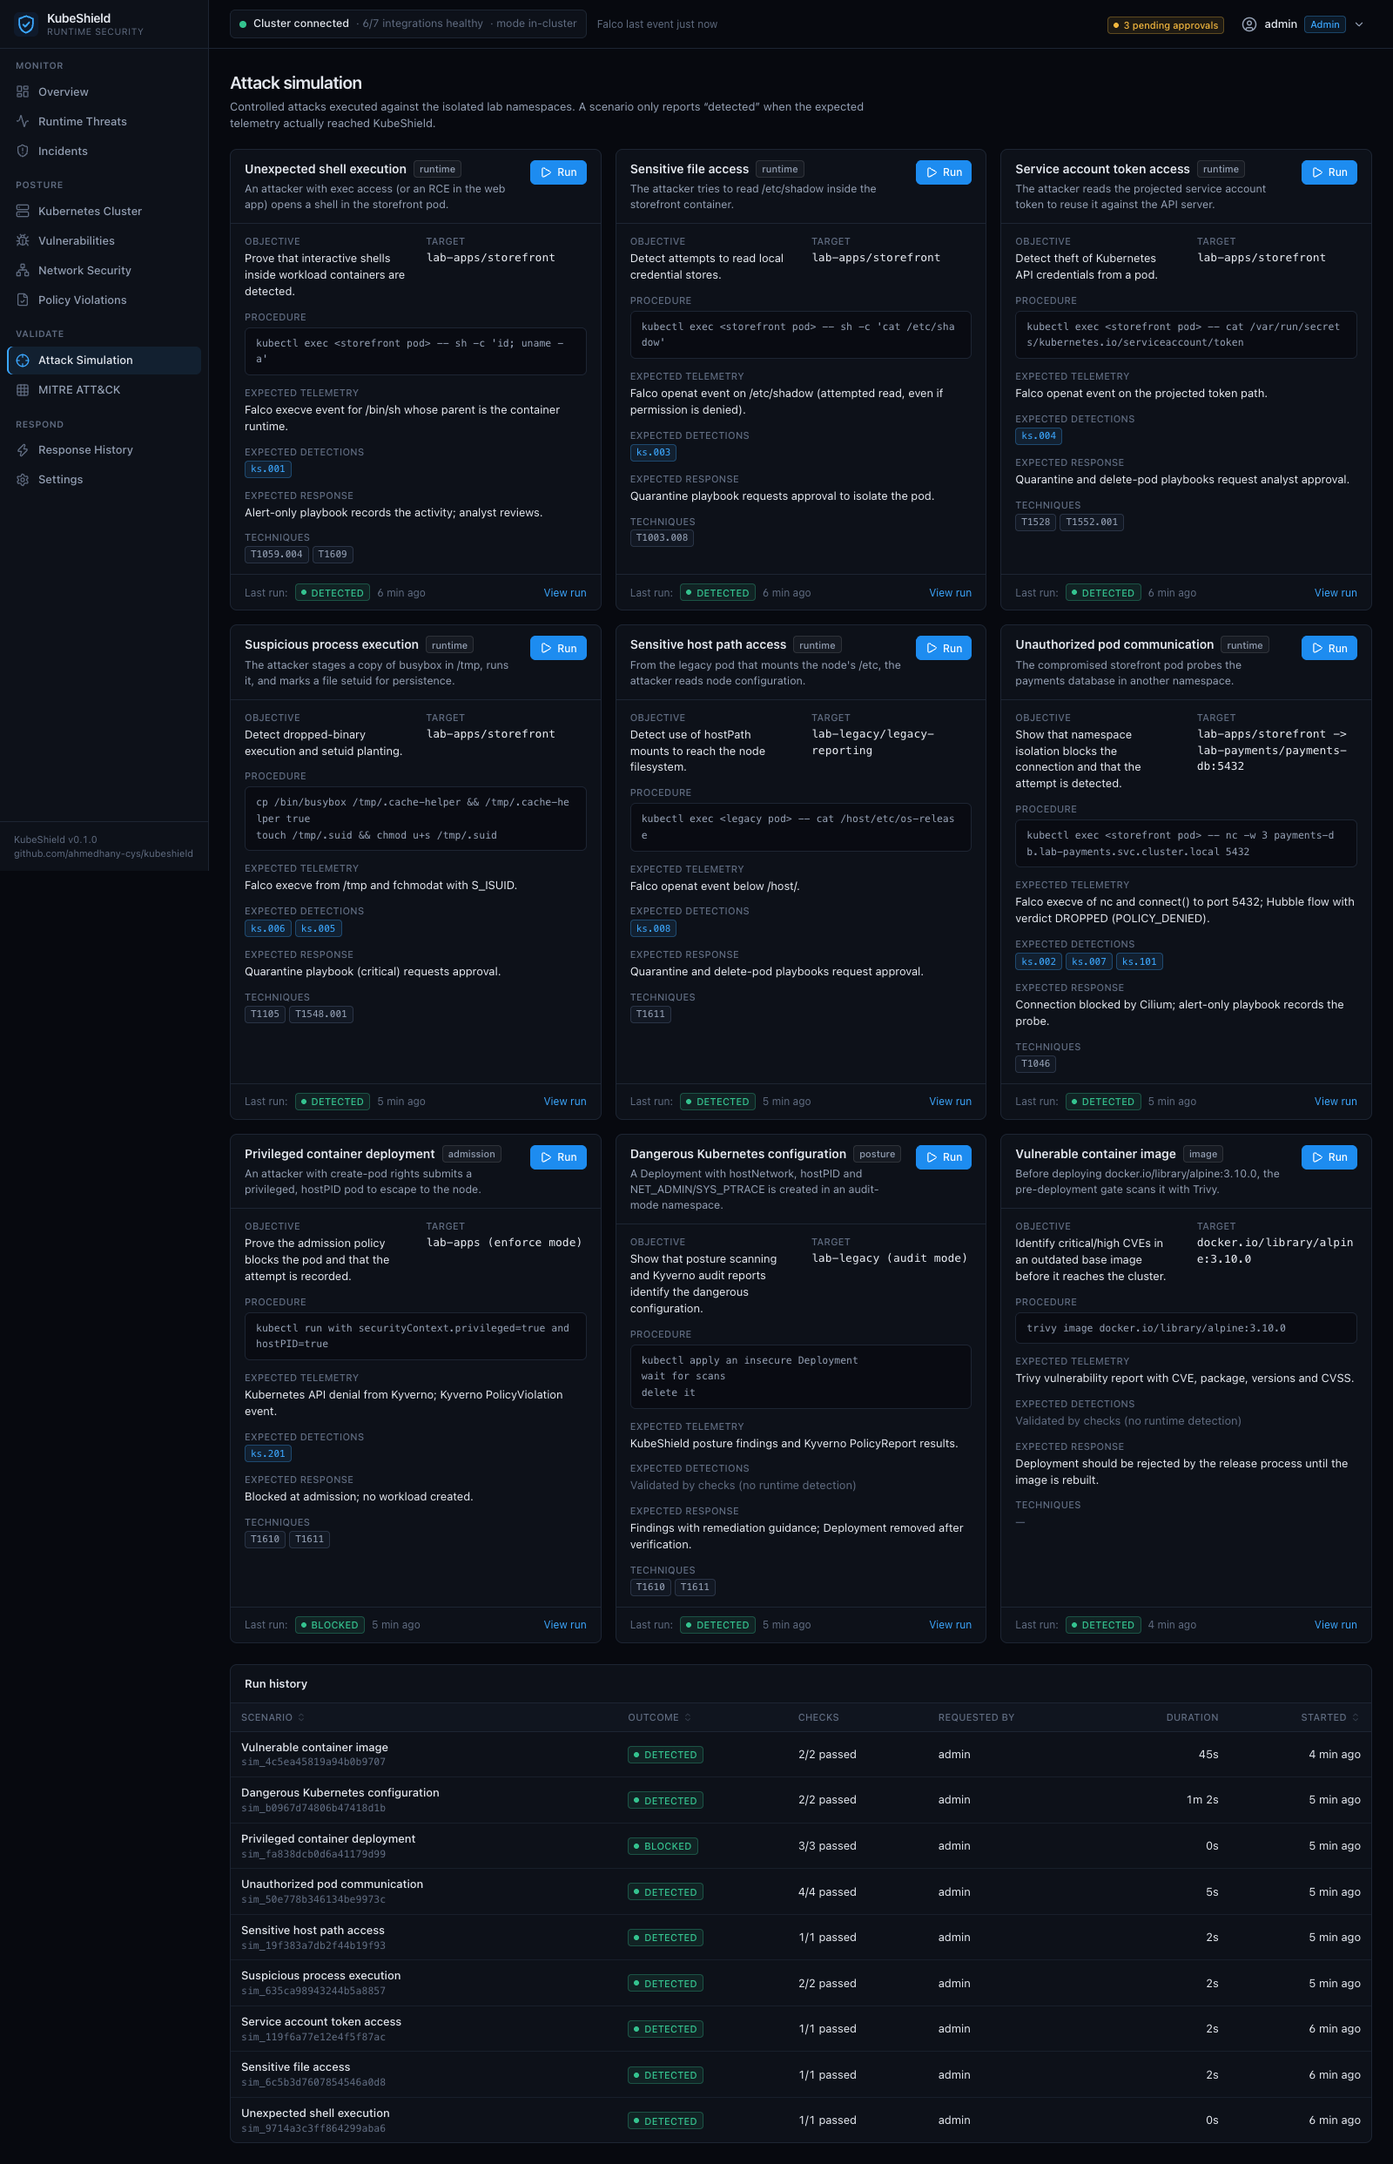
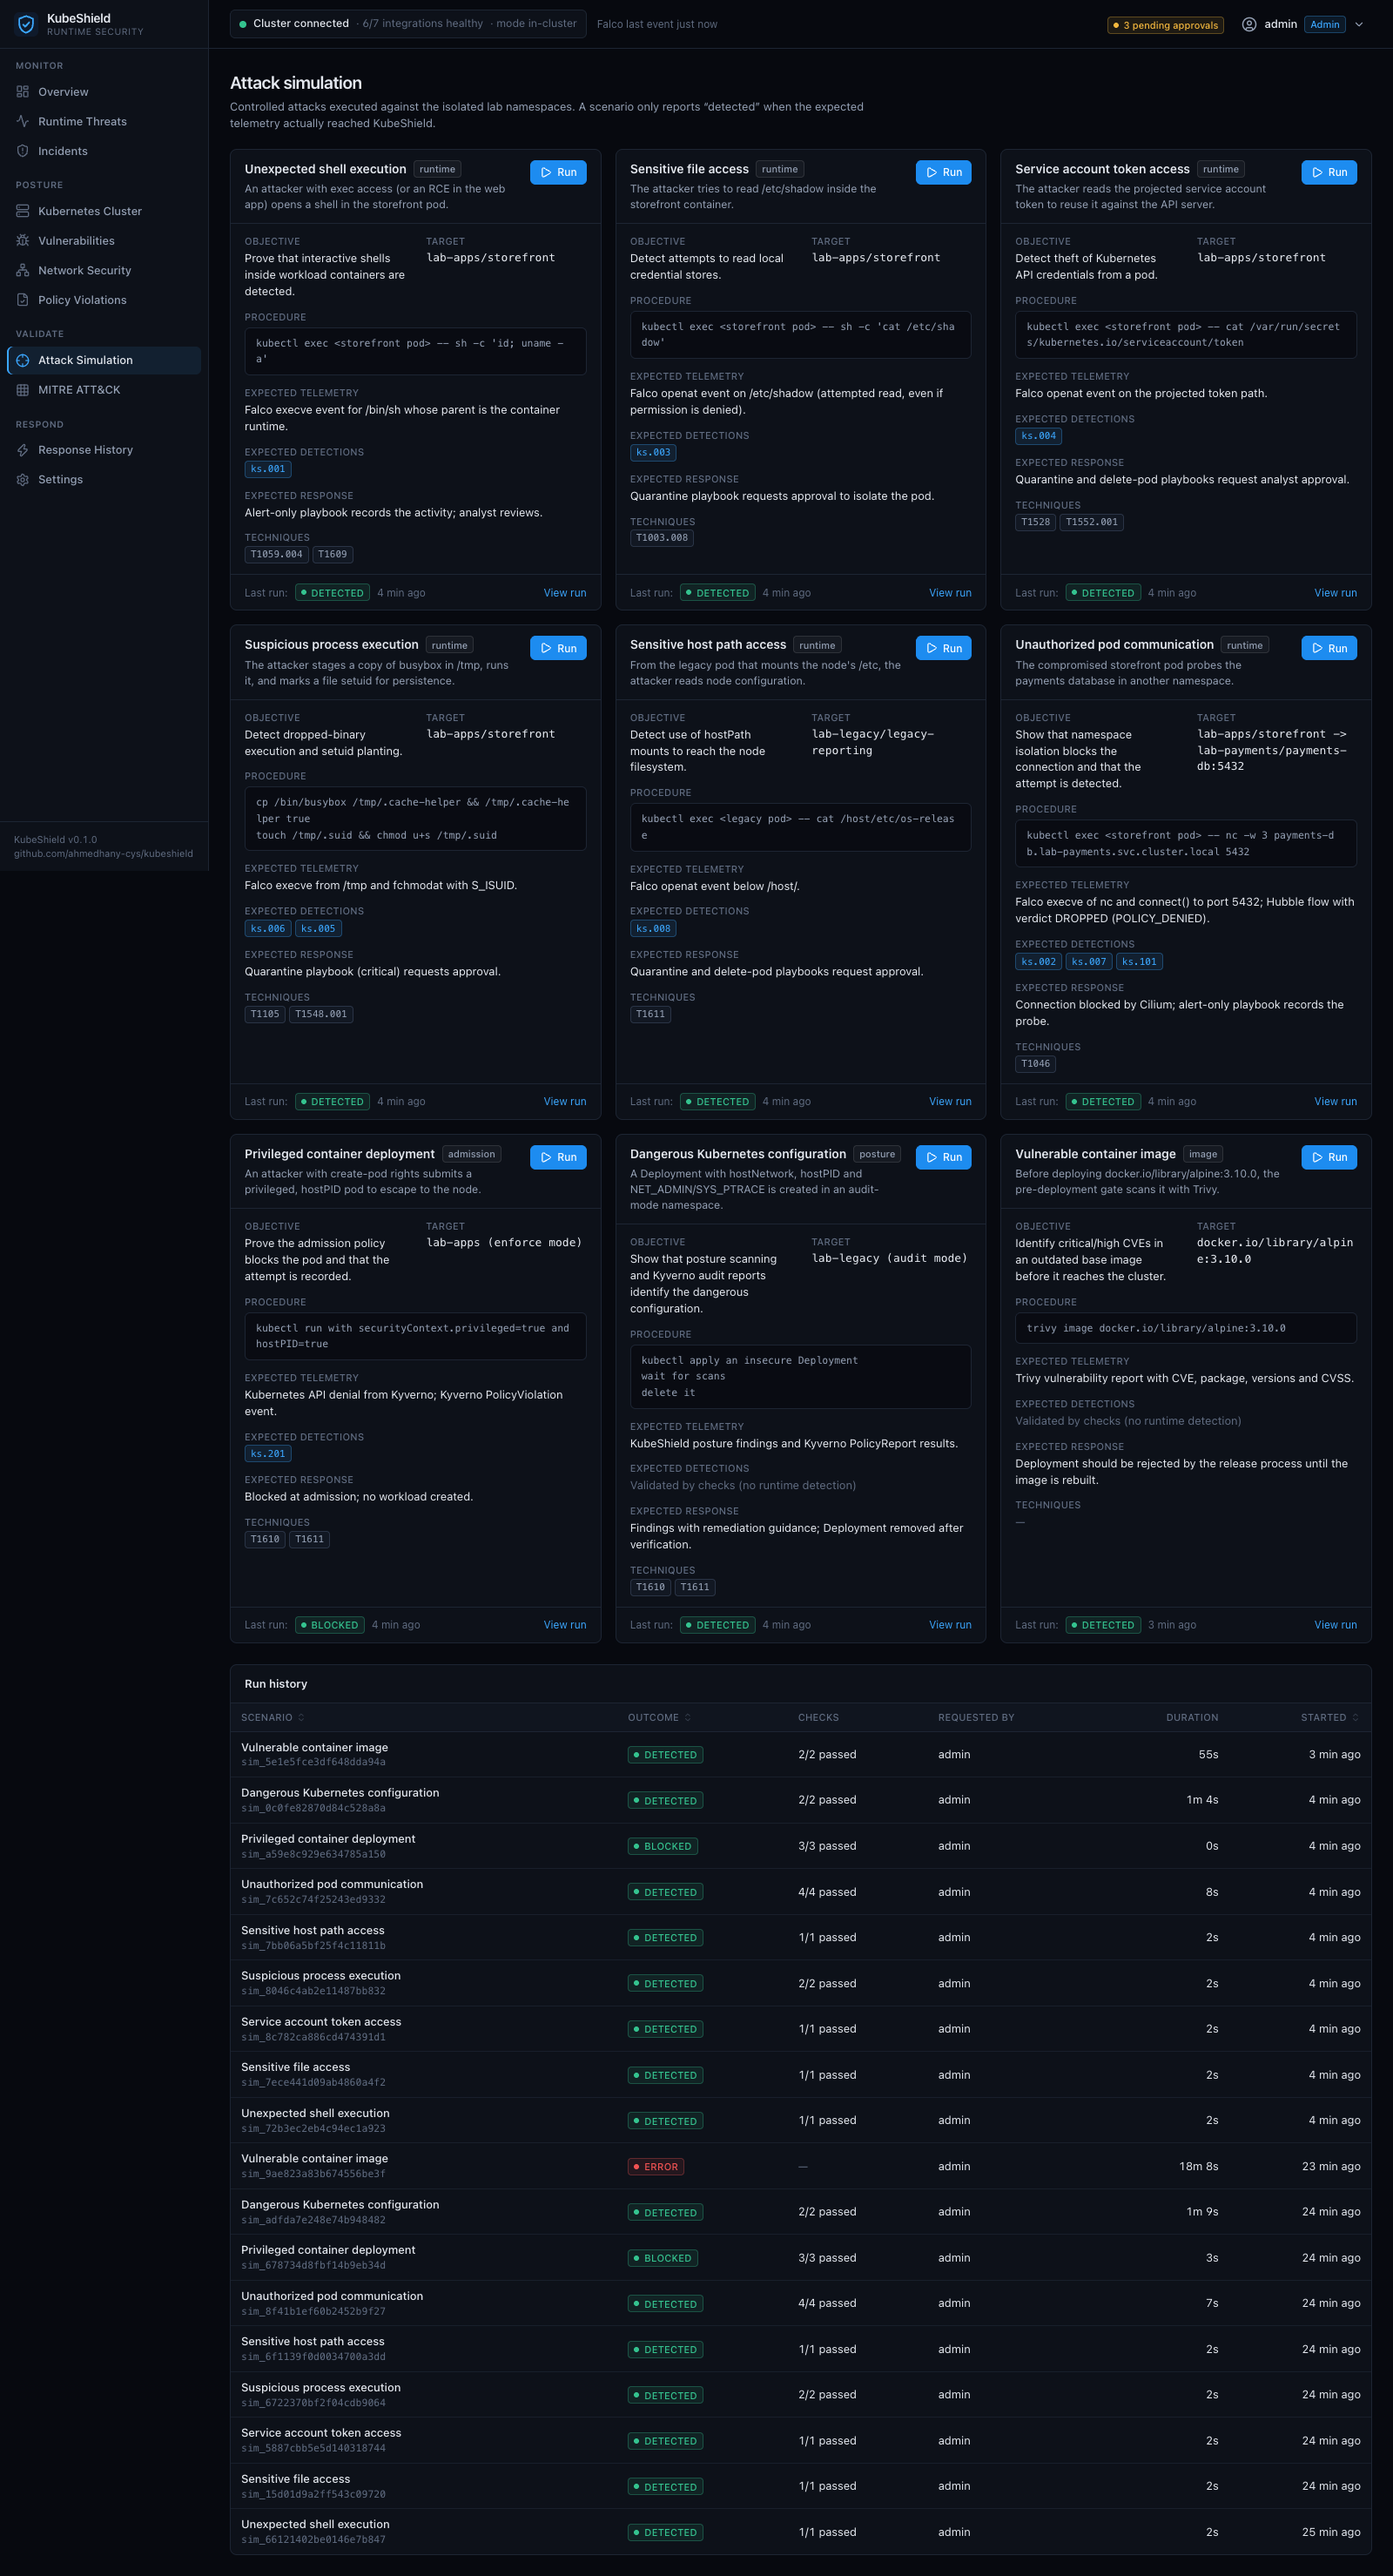
docs: regenerate validation report and screenshots from a full run
All 9 scenarios, the approval-gated isolation flow and namespace containment passed (36/36 checks).
Adds the incident investigation and response history screenshots.

diff --git a/README.md b/README.md
@@ -62,11 +62,12 @@ Details, data flow and design decisions: [docs/architecture.md](docs/architectur
 
 ## Validation results
 
-`e2e/run_e2e.py` runs every scenario through the API, then approves a playbook's isolation request and
-proves containment with real connections. The generated report:
+`e2e/run_e2e.py` runs every scenario through the API, approves a playbook's isolation request and proves
+it with real connections, then applies and releases namespace containment and probes it the same way.
+The generated report:
 [docs/validation/detection-validation-report.md](docs/validation/detection-validation-report.md).
 
-Last full automated run (2026-10-31, before the final noise-tuning and containment fixes below):
+Last full automated run: 2026-11-01, 36 of 36 checks passed, on the code in this repository.
 
 | Scenario | Expected | Outcome |
 |---|---|---|
@@ -80,10 +81,11 @@ Last full automated run (2026-10-31, before the final noise-tuning and containme
 | Dangerous Kubernetes configuration | posture findings + Kyverno audit reports | detected |
 | Vulnerable image (`alpine:3.10.0`) | critical/high CVEs before deployment | detected (3 critical, 9 high) |
 | Response flow | approve → isolate → verify → traffic blocked both ways → audit → release → restored | 10/10 checks passed |
+| Namespace containment | DNS and same-namespace kept; API server and other namespaces blocked; released → restored | 8/8 checks passed |
 
 Additional live checks performed against the cluster (via the API, results recorded in its audit log):
-delete pod with forensics capture — succeeded; scale to zero — succeeded; namespace containment — see the
-next section.
+delete pod with forensics capture — succeeded; scale to zero — succeeded. These two are covered by unit
+tests but not by the automated end-to-end run.
 
 ### Problems found by testing (and fixed)
 
@@ -95,9 +97,13 @@ Testing against real telemetry and real traffic changed the design in several pl
 - **Deny-only Cilium policies default-deny the endpoint.** Namespace containment initially broke DNS;
   it now sets `enableDefaultDeny: false`.
 - **The kind API server is a host identity.** Namespace-selector denies did not block it; containment now
-  denies the `kube-apiserver`, `host` and `remote-node` entities. Verified manually with real connections
-  (DNS and same-namespace traffic kept; API server and cross-namespace pod blocked). The automated
-  containment check was added to `run_e2e.py` but has **not completed a full run yet** (see below).
+  denies the `kube-apiserver`, `host` and `remote-node` entities, verified by the automated containment
+  check above.
+- **Trivy overflowed the pod's `/tmp`.** On the first scan after a restart, Trivy stages its ~270 MB DB
+  download in `/tmp`; the 256 Mi limit got the API pod evicted mid-run. The limits are now 1 Gi / 3 Gi.
+- **Interrupted work blocked the platform.** The simulation running when the pod was evicted stayed
+  `running` forever and refused every new run (scans had the same problem). Startup now marks in-flight
+  work as failed and audits it; response actions are never replayed without a human.
 - **Falco details:** enter events are gone in 0.45, failed `connect()` calls have no socket tuple, `fchmodat`
   reports `SUCCESS` not `0`, and the default `rule_matching: first` hid KubeShield alerts behind upstream
   rules. See [detection-rules.md](docs/detection-rules.md).
@@ -113,11 +119,11 @@ All screenshots come from the running application with data produced by the scen
 |---|---|
 | ![Runtime threats](docs/screenshots/02-runtime-threat-detection.png) Runtime threat detection | ![Cluster](docs/screenshots/03-kubernetes-cluster-overview.png) Kubernetes cluster and posture |
 | ![Vulnerabilities](docs/screenshots/04-vulnerability-scanning.png) Image vulnerability scanning | ![Policies](docs/screenshots/05-policy-violations.png) Kyverno policies and violations |
-| ![Simulation](docs/screenshots/07-attack-simulation-results.png) Attack simulation results | ![MITRE](docs/screenshots/08-mitre-attack-mapping.png) ATT&CK coverage from validation runs |
+| ![Incident](docs/screenshots/06-incident-investigation.png) Incident investigation, timeline and audit trail | ![Simulation](docs/screenshots/07-attack-simulation-results.png) Attack simulation results |
+| ![MITRE](docs/screenshots/08-mitre-attack-mapping.png) ATT&CK coverage from validation runs | ![Responses](docs/screenshots/09-automated-response-history.png) Response history with verification |
 | ![Network](docs/screenshots/10-network-security.png) Hubble flows and policies | ![Settings](docs/screenshots/11-settings-system-status.png) Settings, integrations, detection catalog |
 
-The incident-investigation and response-history screenshots are not included yet: they were captured
-before the API fix above and showed the crash. They will be regenerated with the next full run.
+The `error` row in the simulation history is real: it is the run interrupted by the `/tmp` eviction above.
 
 ## Quick start
 
@@ -148,7 +154,7 @@ e2e/.venv/bin/python e2e/screenshots.py --browser-channel chrome
 
 | Layer | What | How |
 |---|---|---|
-| Unit (61 tests) | Falco normalisation, incident correlation, playbooks and safety switches, response execution and verification (fake Kubernetes), lab guard, posture and RBAC checks, Trivy parsing and input validation, auth/CSRF/rate limiting/JWT tampering, Hubble flow conversion, Kyverno parsing, ATT&CK coverage | `cd backend && python -m pytest` |
+| Unit (62 tests) | Falco normalisation, incident correlation, playbooks and safety switches, response execution and verification (fake Kubernetes), lab guard, posture and RBAC checks, Trivy parsing and input validation, auth/CSRF/rate limiting/JWT tampering, Hubble flow conversion, Kyverno parsing, ATT&CK coverage | `cd backend && python -m pytest` |
 | End-to-end | All scenarios, approval-gated isolation with traffic tests, namespace containment, audit trail | `e2e/run_e2e.py` |
 | Static / supply chain | ruff, strict TypeScript, Helm lint, Falco rule validation, Trivy config/secret/image scans, pip-audit, npm audit | `.github/workflows/` |
 

diff --git a/docs/validation/detection-validation-report.md b/docs/validation/detection-validation-report.md
@@ -1,6 +1,6 @@
 # Detection Validation Report
 
-Generated by `e2e/run_e2e.py` on 2026-10-31T19:33:20.160600+00:00 from live laboratory runs. Every row is the outcome recorded by the KubeShield API for a real scenario execution.
+Generated by `e2e/run_e2e.py` on 2026-11-01T03:49:00.816351+00:00 from live laboratory runs. Every row is the outcome recorded by the KubeShield API for a real scenario execution.
 
 ## Environment
 
@@ -17,15 +17,15 @@ Generated by `e2e/run_e2e.py` on 2026-10-31T19:33:20.160600+00:00 from live labo
 
 | Scenario | Expected | Outcome | Checks passed | Run | Evidence |
 |---|---|---|---|---|---|
-| Unexpected shell execution | detected | **detected** | 1/1 | `sim_9714a3c3ff864299aba6` | `falco_e30948fb-cda6-4299-8b23-24648a312f23` |
-| Sensitive file access | detected | **detected** | 1/1 | `sim_6c5b3d7607854546a0d8` | `falco_f1cff010-49b5-442f-8a59-1f99d7e1a5c9` |
-| Service account token access | detected | **detected** | 1/1 | `sim_119f6a77e12e4f5f87ac` | `falco_d614a93f-aed2-4079-87f8-1880be38bfbb` |
-| Suspicious process execution | detected | **detected** | 2/2 | `sim_635ca98943244b5a8857` | `falco_832dd78e-4a72-48b9-b9b4-539ad84fb023`, `falco_dd6eedb6-a01d-4213-9afa-f932207fbd8d` |
-| Sensitive host path access | detected | **detected** | 1/1 | `sim_19f383a7db2f44b19f93` | `falco_62b2aae5-6124-44cb-b7a9-273c8d129466` |
-| Unauthorized pod communication | detected | **detected** | 4/4 | `sim_50e778b346134be9973c` | `falco_147f9e5a-207b-42dc-87eb-c74c35afef34`, `falco_7f419124-4da1-46b2-a966-7abb29ffbb38`, `hubble_5f544e95ce03cdd92ccbf57e4144778363c5ebbd` |
-| Privileged container deployment | blocked | **blocked** | 3/3 | `sim_fa838dcb0d6a41179d99` | `kyverno_c1dae2d6cc71a5d2487e3246457b932d4c37b6f6`, `kyverno_190e8cc6bec17c7fce4bc1d6ff8c99cb88c0c115` |
-| Dangerous Kubernetes configuration | detected | **detected** | 2/2 | `sim_b0967d74806b47418d1b` | KS-POD-002, KS-POD-004, KS-POD-006, KS-POD-007 |
-| Vulnerable container image | detected | **detected** | 2/2 | `sim_4c5ea45819a94b0b9707` | scan `scan_eded623b12e4434f884c` |
+| Unexpected shell execution | detected | **detected** | 1/1 | `sim_72b3ec2eb4c94ec1a923` | `falco_b7a6dc66-1d7a-48fc-8163-89a3d0a2546c` |
+| Sensitive file access | detected | **detected** | 1/1 | `sim_7ece441d09ab4860a4f2` | `falco_be615ba0-bfcd-426a-9c6a-fa79352652f6` |
+| Service account token access | detected | **detected** | 1/1 | `sim_8c782ca886cd474391d1` | `falco_50427e41-e920-4db8-80eb-4ce7aa946a52` |
+| Suspicious process execution | detected | **detected** | 2/2 | `sim_8046c4ab2e11487bb832` | `falco_5b19e932-a414-433f-baa8-5e1e12037651`, `falco_c7bd0e95-d805-4525-b7d7-402a70afce9b` |
+| Sensitive host path access | detected | **detected** | 1/1 | `sim_7bb06a5bf25f4c11811b` | `falco_33caa47c-8de6-4624-9385-87071d91eabb` |
+| Unauthorized pod communication | detected | **detected** | 4/4 | `sim_7c652c74f25243ed9332` | `falco_29062d6b-dda4-48f8-9bd5-1fc17060f59e`, `falco_3b149e75-bf5f-4cc2-ae25-c1574de194e5`, `hubble_a97644d35b209564bb761ca04c6e35905de7e526` |
+| Privileged container deployment | blocked | **blocked** | 3/3 | `sim_a59e8c929e634785a150` | `kyverno_8c6b6e1b270a19baa8ceef4cc0e77b3f419a6af4`, `kyverno_86f71e177eb6d44f20ed926652401207517e97db` |
+| Dangerous Kubernetes configuration | detected | **detected** | 2/2 | `sim_0c0fe82870d84c528a8a` | KS-POD-002, KS-POD-004, KS-POD-006, KS-POD-007 |
+| Vulnerable container image | detected | **detected** | 2/2 | `sim_5e1e5fce3df648dda94a` | scan `scan_4c2300e0c6ad4d0da3e2` |
 
 ### Check details
 
@@ -48,7 +48,7 @@ Generated by `e2e/run_e2e.py` on 2026-10-31T19:33:20.160600+00:00 from live labo
 
 **Sensitive host path access** (`host-path-access`) — detected
 
-- PASS — Detection ks.008 received from lab-legacy/legacy-reporting-b75d8cbf4-4hbgt
+- PASS — Detection ks.008 received from lab-legacy/legacy-reporting-b75d8cbf4-vt8mb
 
 **Unauthorized pod communication** (`unauthorized-pod-communication`) — detected
 
@@ -75,7 +75,7 @@ Generated by `e2e/run_e2e.py` on 2026-10-31T19:33:20.160600+00:00 from live labo
 
 ## Response validation (detect → respond → verify)
 
-Incident `34`, action `act_9a8d50b2b1ff40e59a49`.
+Incident `34`, action `act_fa6aca1d5e064e01b646`.
 
 - PASS — Scenario produced an incident
 - PASS — Playbook requested isolation and waited for approval (safe default)
@@ -86,6 +86,19 @@ Incident `34`, action `act_9a8d50b2b1ff40e59a49`.
 - PASS — Incident marked contained
 - PASS — Audit trail records request, approval and outcome
 - PASS — Quarantine released
+- PASS — Connectivity restored after release
+
+## Namespace containment validation
+
+Action `act_837b980ad33145e0879f` on `lab-payments`, probed from `payments-api`.
+
+- PASS — Baseline: DNS, same-namespace, API server and cross-namespace reachable
+- PASS — Containment action succeeded
+- PASS — DNS still resolves
+- PASS — Same-namespace traffic still allowed
+- PASS — Kubernetes API server unreachable
+- PASS — Pods in other namespaces unreachable
+- PASS — Containment released
 - PASS — Connectivity restored after release
 
 ## MITRE ATT&CK coverage at time of report
